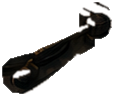
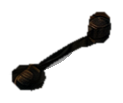
visual: tonearm part cut along a shape-traced silhouette with synthetic shadow; plate rebuilds the vinyl sector and the moving case footprint

Changed region(s): [[0.0, 0.0, 1.0, 0.9897]]

diff --git a/src/themes/cinnaglass/room/study-room.ts b/src/themes/cinnaglass/room/study-room.ts
@@ -72,7 +72,7 @@ export const STUDY_ROOM: RoomTemplate = {
             // parts built from arts/rooms/study/source by
             // scripts/build-turntable-parts.py (box printed by the script)
             arm: {
-                box: { x: 967, y: 823, w: 114, h: 97 },
+                box: { x: 965, y: 820, w: 123, h: 103 },
                 art: {
                     golden: '/rooms/study/parts/tonearm-golden.png',
                     twilight: '/rooms/study/parts/tonearm-twilight.png',

diff --git a/scripts/build-turntable-parts.py b/scripts/build-turntable-parts.py
@@ -1,13 +1,16 @@
-"""Build the study-room turntable parts from the painted base art:
+"""Build the study-room turntable parts from the painted base art.
 
-  * clean plates  - the base art with the tonearm erased (per mood). Inside
-    the platter plane the hole is filled from the same radius at another
-    angle (the vinyl is rotationally symmetric, so this is exact); deep in the
-    case the small remainder is filled with OpenCV Telea inpainting.
-  * tonearm parts - RGBA cutouts of the arm (post, tube, headshell, shadow),
-    tight against the wood, generous over the vinyl (black over black is
-    harmless), pivot-ready.
-  * a diff gate   - arm laid back over the plate must reproduce the original.
+  * clean plates  - the base art with the tonearm AND its cast shadow erased
+    from the vinyl (per mood). Inside the platter the hole is rebuilt from the
+    per-radius median of the untouched angles: the vinyl is rotationally
+    symmetric, so this is exact and never copies a streak. The case is left
+    untouched: the post is the pivot (it never moves) and the arm's root
+    swings well under a pixel, so the part simply re-covers it.
+  * tonearm parts - RGBA cutouts along a hand-traced, shape-based silhouette
+    (colour thresholds cannot tell a black arm from black vinyl), plus a soft
+    synthetic shadow under the arm on the vinyl so it still sits ON the disc.
+  * a diff gate   - arm laid back over the plate must reproduce the original
+    (the only intended difference is the repainted shadow).
 
 Geometry mirrors src/themes/cinnaglass/room/study-room.ts (keep in sync).
 
@@ -25,19 +28,25 @@ import os
 
 import cv2
 import numpy as np
-from PIL import Image, ImageDraw, ImageFilter
+from PIL import Image, ImageDraw
 
 MOODS = ("golden", "twilight", "night")
 PLATTER = dict(cx=963.6, cy=844.7, rx=82.4, ry=49.9, tilt=0.128)
 CENTER = (962.6, 841.0)
 ARM_PIVOT = (1062.5, 844.0)
-ARM_POLY = [(1056, 853), (1040, 861), (1025, 868), (1012, 873), (1003, 878), (994, 880), (980, 884), (972, 892),
-            (973, 903), (982, 912), (996, 914), (1008, 908), (1012, 898), (1022, 890), (1036, 878), (1048, 872), (1058, 866)]
-POST_BOX = (1062.5 - 13, 844 - 16, 1062.5 + 13, 844 + 14)
-# "not wood": max |R-B| that still counts as arm metal / vinyl, per mood
-CHROMA = {"golden": 26, "twilight": 16, "night": 16}
-STEPS = [0.7, -0.7, 1.4, -1.4, 2.1, -2.1, math.pi]
-
+# tight silhouette traced on a dark-range-stretched 6x view: post cap → arm
+# underside → headshell + cartridge → arm top edge → back to the post
+ARM_SILHOUETTE = [
+    (1053, 847), (1055, 836), (1061, 832), (1069, 832), (1074, 837), (1075, 847), (1073, 857), (1068, 862), (1060, 863),
+    (1052, 866), (1045, 867), (1035, 872), (1025, 878), (1015, 884), (1008, 890),
+    (1010, 897), (1006, 907), (996, 910), (985, 909), (977, 901), (977, 891), (984, 885), (994, 884), (1003, 884),
+    (1006, 881), (1015, 875), (1025, 869), (1035, 863), (1045, 858), (1052, 855),
+]
+SHADOW_REACH = 14  # px around the arm the painted cast shadow can extend on the vinyl
+NEAR_PIVOT = 30  # px from the post within which the arm barely moves and the case stays as painted
+RHO_RING = 1.12  # platter recess ring: still symmetric about the disc, polar fill allowed
+STEPS = [0.7, -0.7, 1.05, -1.05, 1.4, -1.4, 1.75, -1.75, 2.1, -2.1, 2.6, -2.6, math.pi]
+SYN_SHADOW = dict(dx=1.5, dy=4.0, blur=2.5, alpha=0.45)
 
 
 def disc_homography():
@@ -72,75 +81,76 @@ def bilinear(img, x, y):
     return top * (1 - fy) + bot * fy
 
 
-def arm_region(size):
-    """Dilated footprint (arm + post + shadow margin) as a bool array."""
+def poly_mask(size, poly):
     m = Image.new("L", size, 0)
-    d = ImageDraw.Draw(m)
-    d.polygon(ARM_POLY, fill=255)
-    d.ellipse(POST_BOX, fill=255)
-    m = m.filter(ImageFilter.MaxFilter(7))
-    return np.asarray(m) > 127
+    ImageDraw.Draw(m).polygon(poly, fill=255)
+    return np.asarray(m)
 
 
-RHO_VINYL = 0.97  # inside this the disc is rotationally symmetric; the rim band and case are not
+def rho_map(shape, Hinv):
+    """Disc-plane radius (1 = rim) for every pixel."""
+    ys, xs = np.mgrid[0:shape[0], 0:shape[1]]
+    pts = np.stack([xs.ravel() + 0.5, ys.ravel() + 0.5, np.ones(xs.size)]).T @ Hinv.T
+    return np.hypot(pts[:, 0] / pts[:, 2], pts[:, 1] / pts[:, 2]).reshape(shape)
 
 
-def sample_at_angle(src, region, Hm, r, a):
-    sx, sy = apply(Hm, r * math.cos(a), r * math.sin(a))
-    xi, yi = int(sx), int(sy)
-    if 0 <= yi < region.shape[0] and 0 <= xi < region.shape[1] and not region[yi, xi]:
-        return bilinear(src, sx, sy)
-    return None
-
-
-def clean_plate(img, region, Hm, Hinv):
+def clean_plate(img, arm, rho, Hm):
+    """Erase the arm where it MOVES: on the vinyl (arm + cast shadow), and on
+    the case only far from the pivot (the headshell overhangs the rim and
+    swings ~4px; the root next to the post moves under a pixel and just stays
+    covered). The platter recess ring around the rim is rotationally
+    symmetric too, so the polar median reaches a little past rho = 1."""
+    h, w = arm.shape
+    ys, xs = np.mgrid[0:h, 0:w]
+    far = np.hypot(xs + 0.5 - ARM_PIVOT[0], ys + 0.5 - ARM_PIVOT[1]) > NEAR_PIVOT
+    k = 2 * SHADOW_REACH + 1
+    reach = cv2.dilate(arm, np.ones((k, k), np.uint8)) > 127
+    near = cv2.dilate(arm, np.ones((9, 9), np.uint8)) > 127
+    region = (reach & (rho < 1.0)) | (near & (rho >= 1.0) & far)
     src = img.astype(np.float64)
     out = src.copy()
-    ys, xs = np.nonzero(region)
-    deep = np.zeros(region.shape, np.uint8)
-    for y, x in zip(ys, xs):
-        u, v = apply(Hinv, x + 0.5, y + 0.5)
-        r = math.hypot(u, v)
-        a = math.atan2(v, u)
-        s = None
-        if r < RHO_VINYL:
-            # vinyl: median over several angles so a copied streak or sheen
-            # never lands in the hole
-            cands = [c for c in (sample_at_angle(src, region, Hm, r, a + st) for st in STEPS) if c is not None]
-            if len(cands) >= 3:
-                s = np.median(np.array(cands), axis=0)
-        if s is not None:
-            out[y, x] = s
+    deep = np.zeros(arm.shape, np.uint8)
+    for y, x in zip(*np.nonzero(region)):
+        u, v = apply(np.linalg.inv(Hm), x + 0.5, y + 0.5)
+        r, a = math.hypot(u, v), math.atan2(v, u)
+        cands = []
+        if r < RHO_RING:
+            for st in STEPS:
+                sx, sy = apply(Hm, r * math.cos(a + st), r * math.sin(a + st))
+                xi, yi = int(sx), int(sy)
+                if 0 <= yi < h and 0 <= xi < w and not region[yi, xi]:
+                    s = bilinear(src, sx, sy)
+                    if s is not None:
+                        cands.append(s)
+        if len(cands) >= 3:
+            out[y, x] = np.median(np.array(cands), axis=0)
         else:
             deep[y, x] = 255
     plate = np.clip(out, 0, 255).astype(np.uint8)
-    # rim band + case wood: a smooth diffusion fill. Structured clones (rim
-    # lines, plank edges) read as junk here, and the tonearm part covers this
-    # area anyway except for slivers while it swings.
     if deep.any():
-        plate = cv2.inpaint(plate, deep, 5, cv2.INPAINT_TELEA)
-    return plate, int(deep.astype(bool).sum())
+        plate = cv2.inpaint(plate, deep, 5, cv2.INPAINT_TELEA)  # leftovers on the case top
+    return plate, region, int(deep.astype(bool).sum())
 
 
-def arm_cutout(img, region, Hinv, chroma):
-    """Alpha: inside the footprint keep the platter plane wholesale and, on
-    the wood, only non-brown pixels (arm metal + its shadow)."""
-    h, w = region.shape
-    rb = img[..., 0].astype(int) - img[..., 2].astype(int)
-    keep = np.zeros((h, w), bool)
-    ys, xs = np.nonzero(region)
-    for y, x in zip(ys, xs):
-        u, v = apply(Hinv, x + 0.5, y + 0.5)
-        if math.hypot(u, v) < 0.985 or abs(rb[y, x]) < chroma:
-            keep[y, x] = True
-    k = keep.astype(np.uint8) * 255
-    k = cv2.morphologyEx(k, cv2.MORPH_CLOSE, np.ones((3, 3), np.uint8))
-    k = cv2.GaussianBlur(k, (3, 3), 0.8)
-    k = np.where(region, k, 0).astype(np.uint8)
-    x0, y0 = int(xs.min()) - 2, int(ys.min()) - 2
-    x1, y1 = int(xs.max()) + 3, int(ys.max()) + 3
-    rgba = np.dstack([img[y0:y1, x0:x1], k[y0:y1, x0:x1]])
-    return rgba, (x0, y0, x1 - x0, y1 - y0)
+def arm_part(img, arm, rho):
+    """RGBA cutout: the arm itself (1px feather) over a soft synthetic shadow
+    that only falls on the vinyl (the case keeps its painted shadow)."""
+    ys, xs = np.nonzero(arm)
+    pad = 12
+    x0, y0 = int(xs.min()) - pad, int(ys.min()) - pad
+    x1, y1 = int(xs.max()) + pad + 1, int(ys.max()) + pad + 1
+    a_arm = cv2.GaussianBlur(arm, (3, 3), 0.7).astype(np.float64) / 255.0
+    sh = SYN_SHADOW
+    M = np.float32([[1, 0, sh["dx"]], [0, 1, sh["dy"]]])
+    shifted = cv2.warpAffine(arm, M, (arm.shape[1], arm.shape[0]))
+    a_sh = cv2.GaussianBlur(shifted, (0, 0), sh["blur"]).astype(np.float64) / 255.0 * sh["alpha"]
+    a_sh = np.where(rho < 1.0, a_sh, 0.0) * (1 - a_arm)  # vinyl only, never over the arm
+    rgb = img.astype(np.float64)
+    alpha = a_arm + a_sh
+    # premultiplied blend of arm colour over black shadow, then un-premultiply
+    col = rgb * a_arm[..., None] / np.maximum(alpha, 1e-6)[..., None]
+    rgba = np.dstack([np.clip(col, 0, 255), alpha * 255]).astype(np.uint8)
+    return rgba[y0:y1, x0:x1], (x0, y0, x1 - x0, y1 - y0)
 
 
 def composite(plate, part, box, angle_deg=0.0):
@@ -168,27 +178,24 @@ def main():
     crop = (800, 680, 1140, 940)
     for mood in MOODS:
         img = np.asarray(Image.open(os.path.join(args.src, f"{mood}.png")).convert("RGB"))
-        region = arm_region((img.shape[1], img.shape[0]))
-        plate, deep_px = clean_plate(img, region, Hm, Hinv)
-        part, box = arm_cutout(img, region, Hinv, CHROMA[mood])
+        arm = poly_mask((img.shape[1], img.shape[0]), ARM_SILHOUETTE)
+        rho = rho_map(img.shape[:2], Hinv)
+        plate, region, telea_px = clean_plate(img, arm, rho, Hm)
+        part, box = arm_part(img, arm, rho)
         Image.fromarray(plate).save(os.path.join(args.out, f"{mood}.png"))
         Image.fromarray(part, "RGBA").save(os.path.join(args.out, "parts", f"tonearm-{mood}.png"))
         manifest["box"] = {"x": box[0], "y": box[1], "w": box[2], "h": box[3]}
-        # diff gate
         rest = composite(plate, part, box)
-        d_in = np.abs(rest.astype(int) - img.astype(int)).max(axis=2)[region]
+        armpx = arm > 127
+        d_arm = np.abs(rest.astype(int) - img.astype(int)).max(axis=2)[armpx]
         d_out = np.abs(plate.astype(int) - img.astype(int)).max(axis=2)[~region]
-        print(f"{mood:9s} plate: polar-filled {int(region.sum()) - deep_px} px, telea {deep_px} px | "
-              f"gate inside footprint: mean {d_in.mean():.2f} max {d_in.max()} (>=24: {(d_in >= 24).mean() * 100:.1f}%) | "
-              f"outside footprint max {d_out.max()} | arm box {box}")
-        # review strip: original | clean plate | arm laid back | arm swung 3 deg
+        print(f"{mood:9s} rebuilt px {int(region.sum())} (telea {telea_px}) | gate on the arm itself: mean {d_arm.mean():.2f} max {d_arm.max()} | "
+              f"outside rebuilt region max {d_out.max()} | part box {box}")
         swung = composite(plate, part, box, angle_deg=-3.0)
-        tiles = [img, plate, rest, swung]
         w3, h3 = (crop[2] - crop[0]) * 3, (crop[3] - crop[1]) * 3
         strip = Image.new("RGB", (w3 * 4 + 30, h3), (18, 18, 18))
-        for i, t in enumerate(tiles):
-            tile = Image.fromarray(t).crop(crop).resize((w3, h3), Image.LANCZOS)
-            strip.paste(tile, (i * (w3 + 10), 0))
+        for i, t in enumerate([img, plate, rest, swung]):
+            strip.paste(Image.fromarray(t).crop(crop).resize((w3, h3), Image.LANCZOS), (i * (w3 + 10), 0))
         strip.save(os.path.join(args.review, f"turntable-{mood}.png"))
     with open(os.path.join(args.out, "parts", "tonearm.json"), "w", encoding="utf-8") as f:
         json.dump(manifest, f, indent=1)

diff --git a/ai/TODO.md b/ai/TODO.md
@@ -50,7 +50,7 @@
 
 - [x] 物件热点组件（2026-08-10 首版，2026-09-05 定稿 v5）：点击开功能——五件全挂：日记本→timeline、相框→照片墙、挂钟→时钟、唱片机→音乐、许愿罐→心愿单；可点提示 = 周期星星 + hover 问候星星 + 物件自身动起来（活物件），**光环/描边/换图三条路全部否决并删除**（白环→多边形描边→烘焙光晕，用户逐轮否决）
 - [~] **活物件（living props）**：让家具自己动，hover 只改参数不换图（研究与方案 `ai/design_system/research/living-props.md`）
-    - [x] 唱片机（2026-09-05，两轮）：转盘透视真旋转（唱片外沿椭圆 + 圆心像素级量测 → 单应矩阵 → PerspectiveMesh，圆心/外沿旋转时都不漂）、宽幅高光拆成静态加色层、hover 转速 ×2.25 + 唱臂 3° 弹簧摆动。第二轮走**真分件**：`scripts/build-turntable-parts.py` 从原画抠出唱臂零件（`public/rooms/study/parts/`）并生成擦掉唱臂的 clean plate 当新底图（盘内极坐标中值补洞、机身 Telea），差分闸门「零件叠回 ≡ 原图」mean 1.2–2.6/255、引擎静止渲染 vs 原画 mean 0.54；原画移入 `arts/rooms/study/source/` 作量测真源。codex 的 AI 局部重绘 clean plate 试过一轮不合格（残影/接缝），此类精度活走确定性脚本。量测工具 `scripts/fit-disc-ellipse.py`
+    - [x] 唱片机（2026-09-05，两轮）：转盘透视真旋转（唱片外沿椭圆 + 圆心像素级量测 → 单应矩阵 → PerspectiveMesh，圆心/外沿旋转时都不漂）、宽幅高光拆成静态加色层、hover 转速 ×2.25 + 唱臂 3° 弹簧摆动。第二轮走**真分件**：`scripts/build-turntable-parts.py` 按**形状手描剪影**（暗部拉伸 6× 视图上描，颜色阈值分不开黑臂与黑胶）抠出唱臂零件（`public/rooms/study/parts/`，带合成软阴影），并生成 clean plate 当新底图：盘内连唱臂投影一起按「每半径多角度中值」重建（旋转对称，不复制划痕），盒边只擦离转轴 >30px 会动的部分（唱头），转轴柱与臂根不动保留原画。闸门：零件叠回 vs 原图在臂身上 mean 0.2–0.5/255、重建区外 0。原画移入 `arts/rooms/study/source/` 作量测真源。教训：codex AI 局部重绘不合格（残影/接缝）；「多边形∪暗色像素」的颜色抠法把投影和盘边一起抠进零件，摆动即穿帮——抠件必须按形状。量测工具 `scripts/fit-disc-ellipse.py`
     - [ ] 许愿罐：星星 idle 漂浮、hover 更亮更快（分层资产：玻璃/5-8 颗星/丝带/光晕，codex 出件 + 差分校验）
     - [ ] P2 程序化件：台灯光晕呼吸、咖啡热气、窗帘微飘（MeshPlane 扰动）
 - [ ] 白纸功能卡收敛：单卡居中、宽 ≤54-60%、场景压暗+blur 退后、不遮挡任一角色（概念图 04 规范）——timeline 已完成，其他弹窗族仍待收敛
